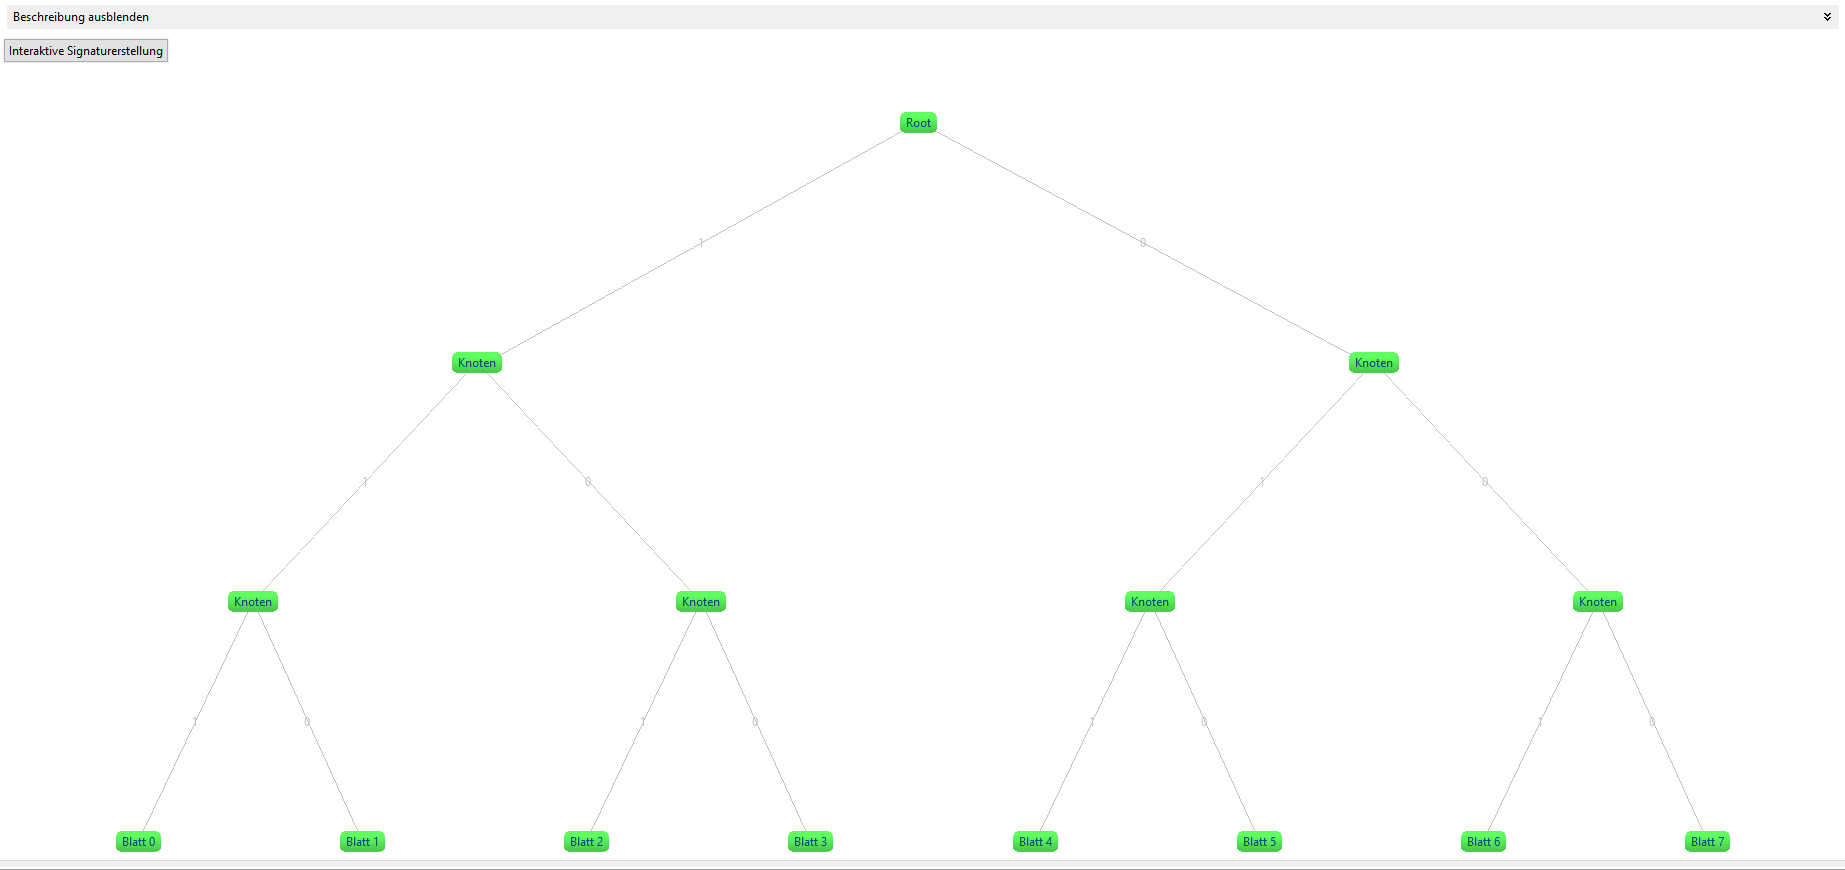
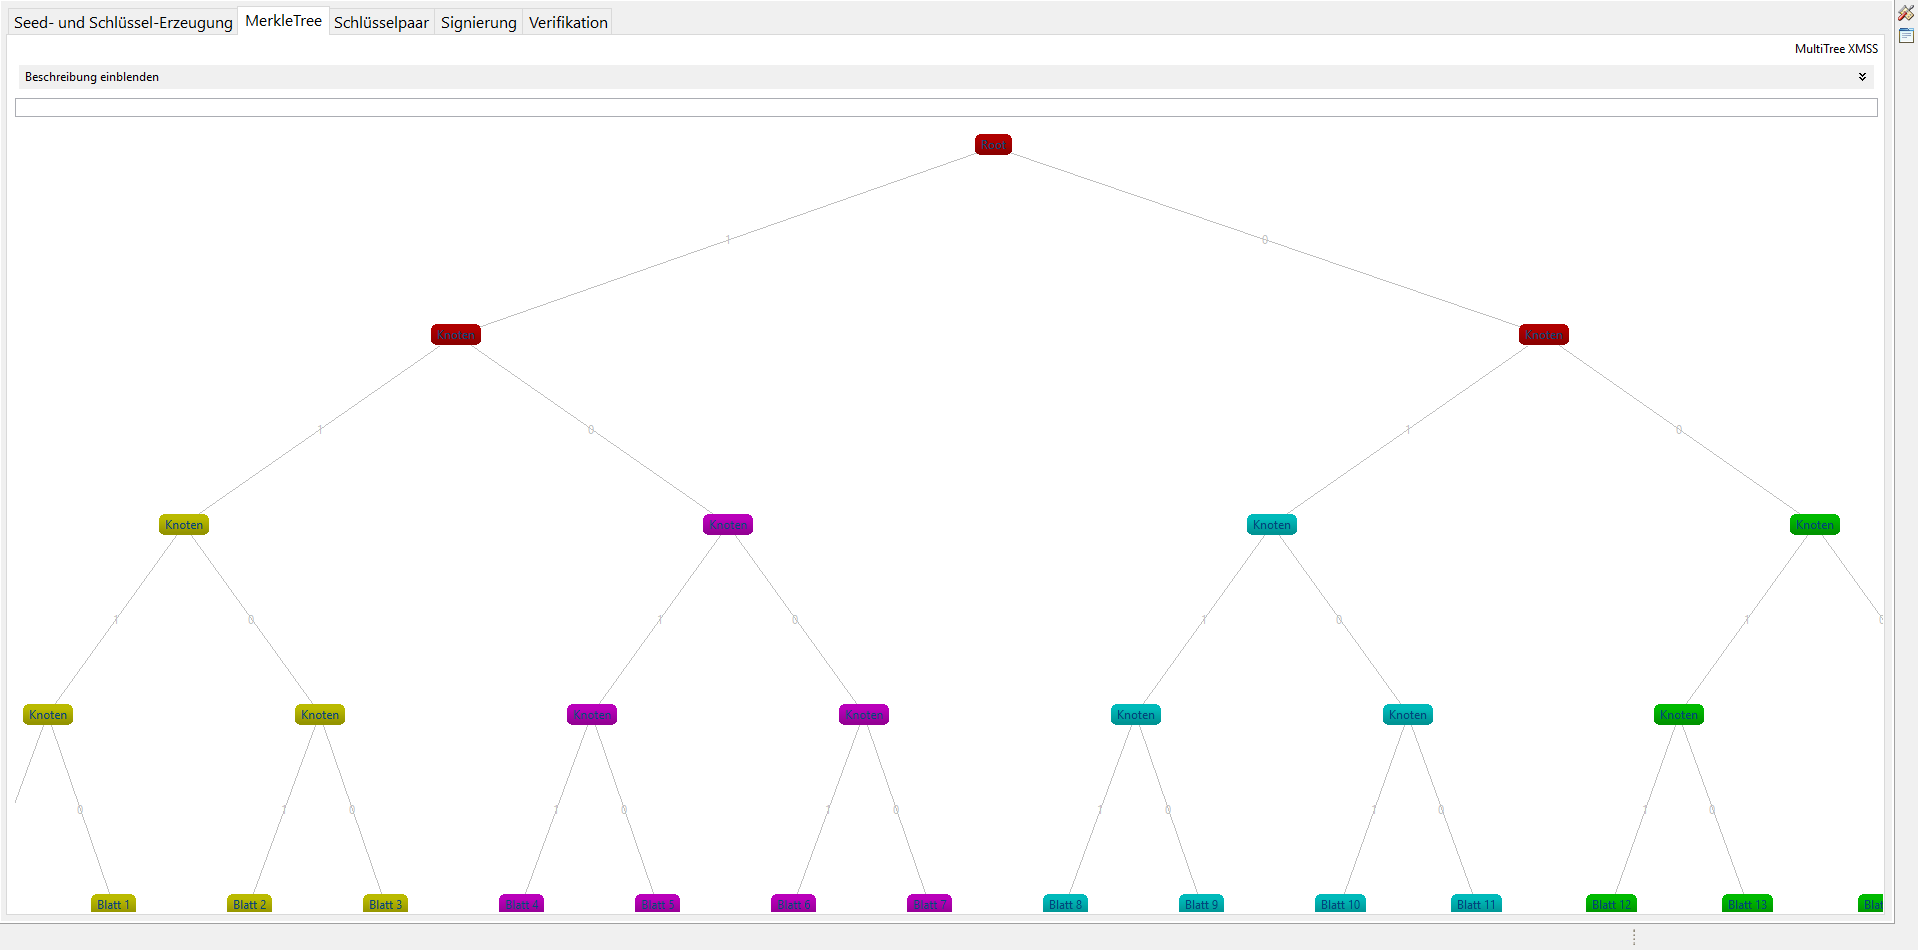
fixing onlinehelp

diff --git a/org.jcryptool.visual.merkletree/nl/de/help/content/index.html b/org.jcryptool.visual.merkletree/nl/de/help/content/index.html
@@ -95,7 +95,7 @@ Es k&oumlnnen insgesamt 2^h Nachrichten mit einer L&aumlnge von m Bytes signiert
 
 <img src="img/page1.png" alt="Festlegung des Seeds und Schl&uumlsselgeneration" width="1200"/>
 
-<p>In diesem Tab kann zwischen den einzelnen Verfahren (MSS, XMSS) gewechselt werden. Des Weiteren kann hier der Seed festgelegt werden, der Winternitz-Parameter kann eingestellt werden, die Anzahl der Secret Keys definiert und die Secret Keys erzeugt werden.</p>
+<p>In diesem Tab kann zwischen den einzelnen Verfahren (MSS, XMSS, XMSS^MT) gewechselt werden. Des Weiteren kann hier der Seed festgelegt werden, der Winternitz-Parameter kann eingestellt werden, die Anzahl der Secret Keys definiert und die Secret Keys erzeugt werden. Bei dem XMSS^MT Verfahren kann zusätzlich die Einzelbaumhöhe eingestellt werden.</p>
 	
 <img src="img/seed.png" alt="Hier muss der Seed festgelegt werden" width="1200"/>
 	
@@ -119,13 +119,10 @@ Es k&oumlnnen insgesamt 2^h Nachrichten mit einer L&aumlnge von m Bytes signiert
 Wird auf einen Node geklickt, dann wird in Gelb der Pfad zur Wurzel angezeigt.
 In Rot wird der Verifizierungspfad angezeigt, welcher ein Teil der Signatur ist.
 Klickt man einen Node oder ein Blatt (Leaf) an, wird oben links der zugeh&oumlrige Hashwert angezeigt.
-Mit einem Klick auf <b>Beschreibung ausblenden</b> wird der ganze Baum sichtbar.</p>
+Mit einem Klick auf <b>Beschreibung ausblenden</b> wird der ganze Baum sichtbar.
+In der XMSS^MT Varriante werden die einzelnen Bäume farblich hervorgehoben.</p>
 
 <img src="img/expanded.PNG" alt="MerkleTree" width="1200"/>
-
-<p>Mit der <b>Interaktiven Signaturerstellung</b> kann man den Vorgang der Signaturerstellung Schritt f&uumlr Schritt verfolgen.</p>
-
-<img src="img/interactive.PNG" alt="MerkleTree" width="1200"/>
 
 
 
@@ -133,7 +130,7 @@ Mit einem Klick auf <b>Beschreibung ausblenden</b> wird der ganze Baum sichtbar.
 <p></p><br>
 <h4>Tab 3: Schl&uumlsselpaar</h4>
 
-<p>Im dritten Tab wird der &oumlffentliche Schl&uumlssel und der private Schl&uumlssel angezeigt. Die Schl&uumlsselteile des privaten Schl&uumlssels k&oumlnnen farblich hervorgehoben werden.</p>
+<p>Im dritten Tab wird der &oumlffentliche Schl&uumlssel und der private Schl&uumlssel angezeigt.</p>
 
 <img src="img/schluesselpaar.PNG" alt="MerkleTree" width="1200"/>
 
@@ -143,7 +140,7 @@ Mit einem Klick auf <b>Beschreibung ausblenden</b> wird der ganze Baum sichtbar.
 	
 <img src="img/page3.png" alt="Nachricht signieren" width="1200"/>
 	
-<p>In diesem Tab k&oumlnnen Signaturen generiert werden. Diese werden mit den in Tab 1 generierten Keys erzeugt. Hier kann ein beliebiger Text eingegeben werden, welcher nach dem Dr&uumlcken auf <b>Nachricht signieren</b> signiert wird.</p>
+<p>In diesem Tab k&oumlnnen Signaturen generiert werden. Diese werden mit den in Tab 1 generierten Keys erzeugt. Mit der <b>Interaktiven Signaturerstellung</b> kann man den Vorgang der Signaturerstellung Schritt f&uumlr Schritt verfolgen. Bei der <b>Einfache Signaturerstellung</b> kann ein beliebiger Text eingegeben werden, welcher nach dem Dr&uumlcken auf <b>Nachricht signieren</b> signiert wird.</p>
 
 <img src="img/sign.png" alt="Signatur" width="1200"/>
 	
@@ -163,7 +160,7 @@ Die Signatur hat den folgenden Aufbau: Index des Schl&uumlsselpaares | OTS-Signa
 
 <img src="img/verify.png" alt="Erfolgreiche Verifikation" width="1200"/>
 
-<p>Wenn man ein anderes (falsches) Blatt ausw&aumlhlt und auf <b>Verifizieren</b> klickt, schl&aumlgt die Verifikation fehl.</p>
+<p> Mit einen Klick auf <b>Erstellte Signaturen</b> können die zuvor erstellten Signaturen betrachtet werden. Wenn man ein anderes (falsches) Blatt ausw&aumlhlt und auf <b>Verifizieren</b> klickt, schl&aumlgt die Verifikation fehl.</p>
 
 
 <br>
